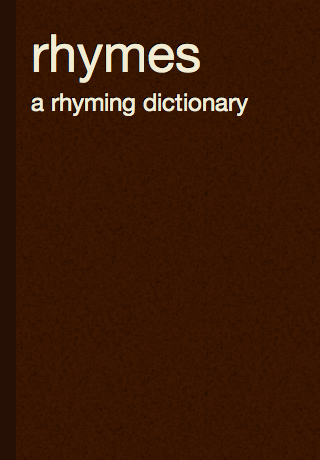
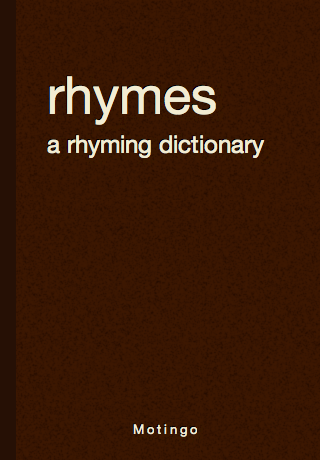
Updated startup images.

Changed region(s): [[0.0938, 0.0609, 0.8438, 0.3652], [0.4062, 0.913, 0.625, 0.9739]]

diff --git a/assets/apple-touch-startup-image.html b/assets/apple-touch-startup-image.html
@@ -7,6 +7,7 @@
     body {
       font-family: "Helvetica Neue";
       background-image: url('book-cover-texture.png');
+      color: #f2ecd2;
     }
     .binding {
       background: #261005;
@@ -15,19 +16,52 @@
       -webkit-box-shadow: 0px 0px 10px black;
     }
     h1,h2 {
-      color: #f2ecd2;
       text-shadow: -1px -1px 0px black;
       margin: 0px;
-      margin-left: 10%;
+      margin-left: 15%;
       font-weight: normal;
     }
-    h1 { font-size: 5.2em; margin-top: 7%; }
-    h2 { font-size: 2.4em; margin-top: 1%; }
+    h1 { margin-top: 10%; }
+    h2 { margin-top: 1%;  }
+    footer {
+      position: absolute; left: 5%; right: 0px; bottom: 5%;
+      text-align: center;
+      text-shadow: -1px -1px 0px black;
+      font-weight: 100; letter-spacing: 0.24em;
+    }
+
+    @media all and (max-width: 2048px) {
+      h1 { font-size: 24.96em; margin-top: 10%; }
+      h2 { font-size: 11.52em; }
+      footer { font-size: 6.24em; }
+    }
+    @media all and (max-width: 1536px) {
+      h1 { margin-top: 20%; }
+    }
+    @media all and (max-width: 1024px) {
+      h1 { font-size: 12.48em; margin-top: 10%; }
+      h2 { font-size: 5.76em;  }
+      footer { font-size: 3.12em; }
+    }
+    @media all and (max-width: 768px) {
+      h1 { margin-top: 20%; }
+    }
+    @media all and (max-width: 640px) {
+      h1 { font-size: 10.4em; }
+      h2 { font-size: 4.8em;  }
+      footer { font-size: 2.6em; }
+    }
+    @media all and (max-width: 480px) {
+      h1 { font-size: 5.2em; } /* 52px / 320px (Portrait) => 0.1625 */
+      h2 { font-size: 2.4em; } /* 24px / 320px (Portrait) => 0.075  */
+      footer { font-size: 1.3em; } /* 13px / 320px (Portrait) => 0.040625 */
+    }
   </style>
 </head>
 <body>
   <div class="binding"></div>
   <h1>rhymes</h1>
   <h2>a rhyming dictionary</h2>
+  <footer>Motingo</footer>
 </body>
 </html>
